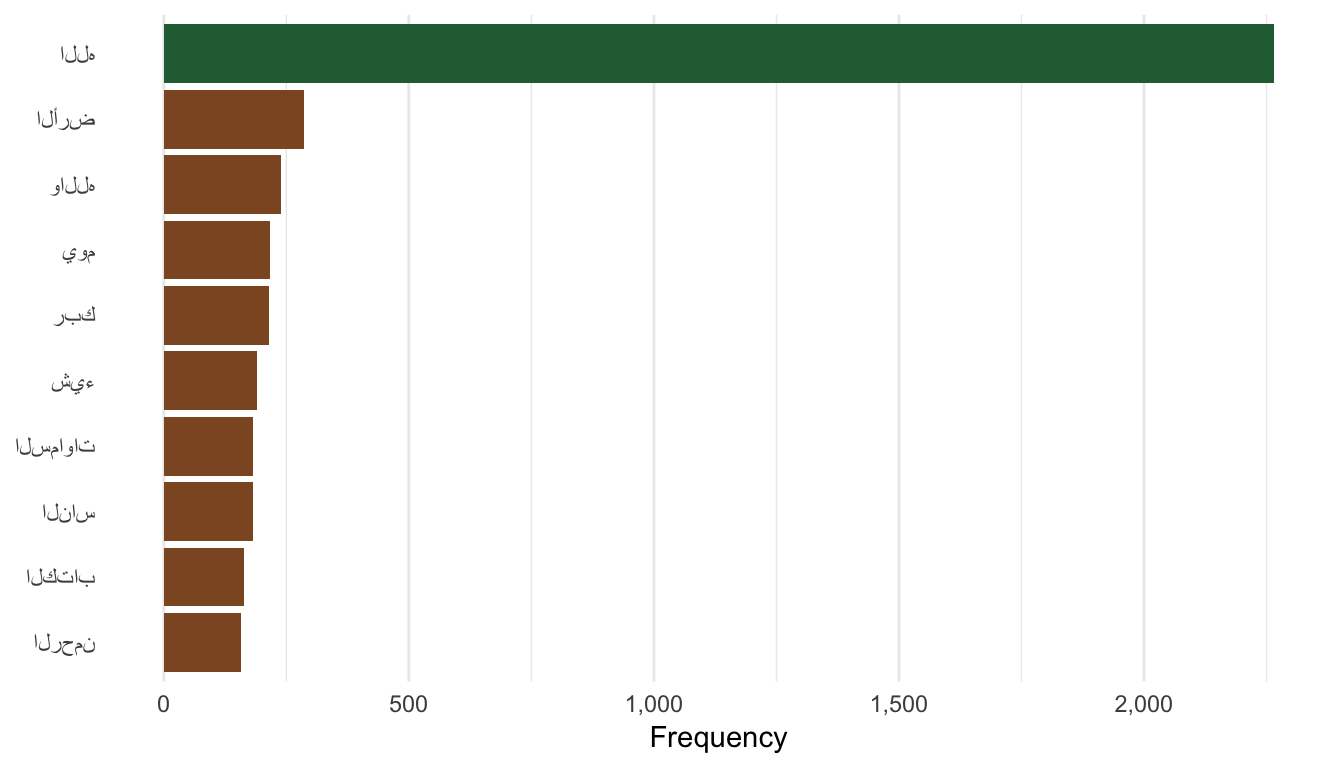
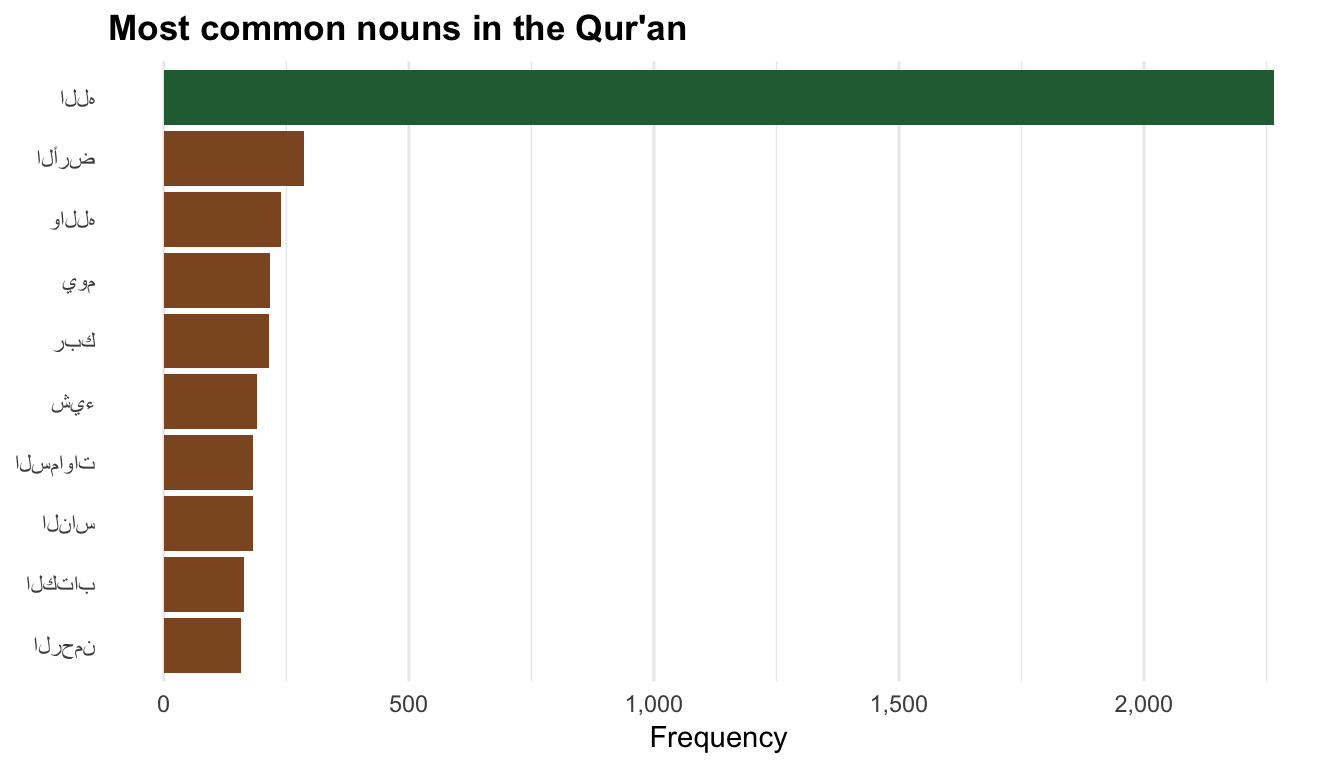
Minor typos + titles

diff --git a/README.md b/README.md
@@ -90,7 +90,7 @@ cnlp_init_corenlp(language = "ar")
 Then, for the sake of speed, we’ll extract just the first surah of the
 Qur’an ([the Fatihah](https://en.wikipedia.org/wiki/Al-Fatiha)) and tag
 it with `cnlp_annotate()`. We’ll use the version of the Qur’an without
-vowels becuase it seems to work better with CoreNLP. `cnlp_annotate()`
+vowels because it seems to work better with CoreNLP. `cnlp_annotate()`
 does the heavy lifting of annotation and returns an object with the
 `annotate` class, which isn’t readily usable. We use `cnlp_get_token()`
 to transform it to a data frame, which makes it easier to analyze with
@@ -174,7 +174,7 @@ in a `removeStopWords()` function. We can extract that list into its own
 mini data frame, though.
 
 The [**stopwords** package](https://github.com/davnn/stopwords) also has
-a much of common Arabic words, accessible through
+a bunch of common Arabic words, accessible through
 `stopwords::stopwords(language = "ar", source = "misc"))`, but it’s not
 as long of a list as `arabicStemR::removeStopWords()`, and it includes
 important Qur’anic words like يوم (day). So we’ll just use the
@@ -211,10 +211,12 @@ plot_top_nouns <- ggplot(top_nouns, aes(x = fct_rev(word), y = n, fill = n > 500
   geom_col() + 
   scale_fill_manual(values = c("#8F562B", "#276B42"), guide = FALSE) +
   scale_y_continuous(labels = scales::comma) +
-  labs(y = "Frequency", x = NULL) +
+  labs(y = "Frequency", x = NULL,
+       title = "Most common nouns in the Qur'an") +
   coord_flip() +
   theme_minimal() +
-  theme(panel.grid.major.y = element_blank())
+  theme(panel.grid.major.y = element_blank(),
+        plot.title = element_text(face = "bold"))
 plot_top_nouns
 ```
 
@@ -251,10 +253,12 @@ plot_top_verbs <- ggplot(top_verbs_themes,
   geom_col() + 
   scale_fill_manual(values = c("#2BCAE0", "#9D2D2A", "#F5D085"),
                     name = NULL) +
-  labs(y = "Frequency", x = NULL) +
+  labs(y = "Frequency", x = NULL,
+       title = "Most common verbs in the Qur'an") +
   coord_flip() +
   theme_minimal() +
   theme(panel.grid.major.y = element_blank(),
+        plot.title = element_text(face = "bold"),
         legend.position = "bottom",
         legend.key.size = unit(0.65, "lines"))
 plot_top_verbs
